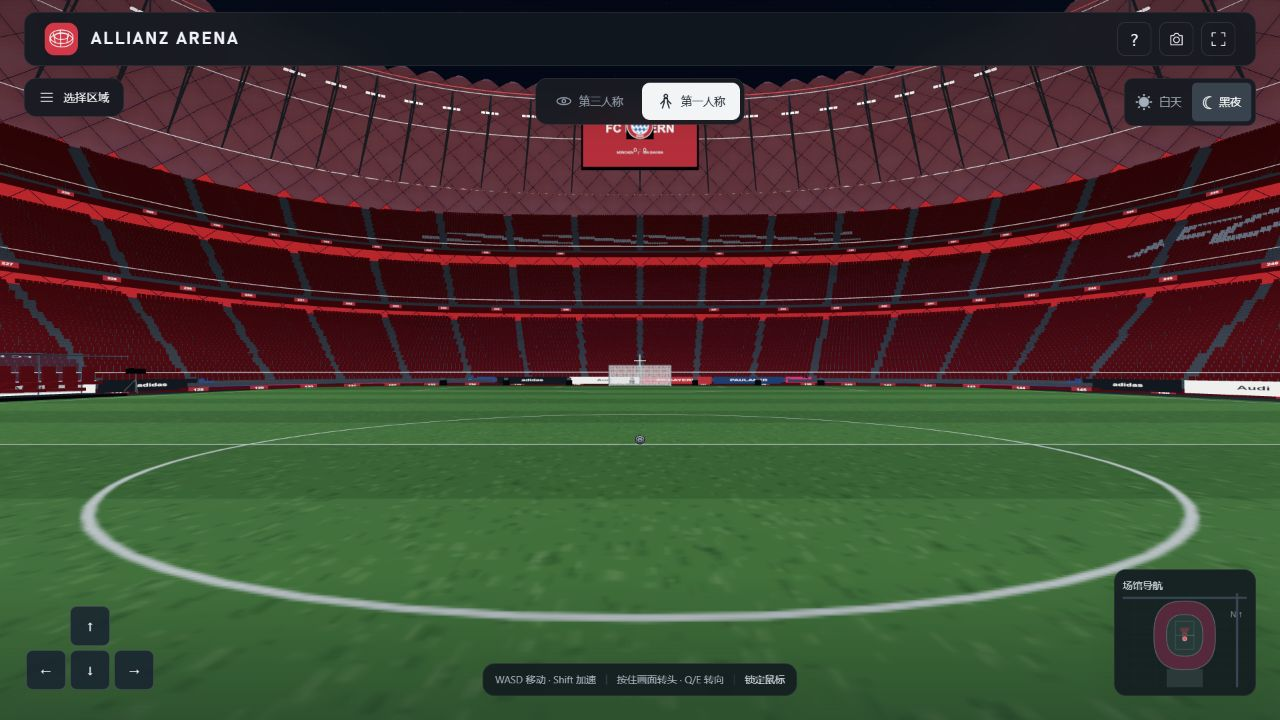
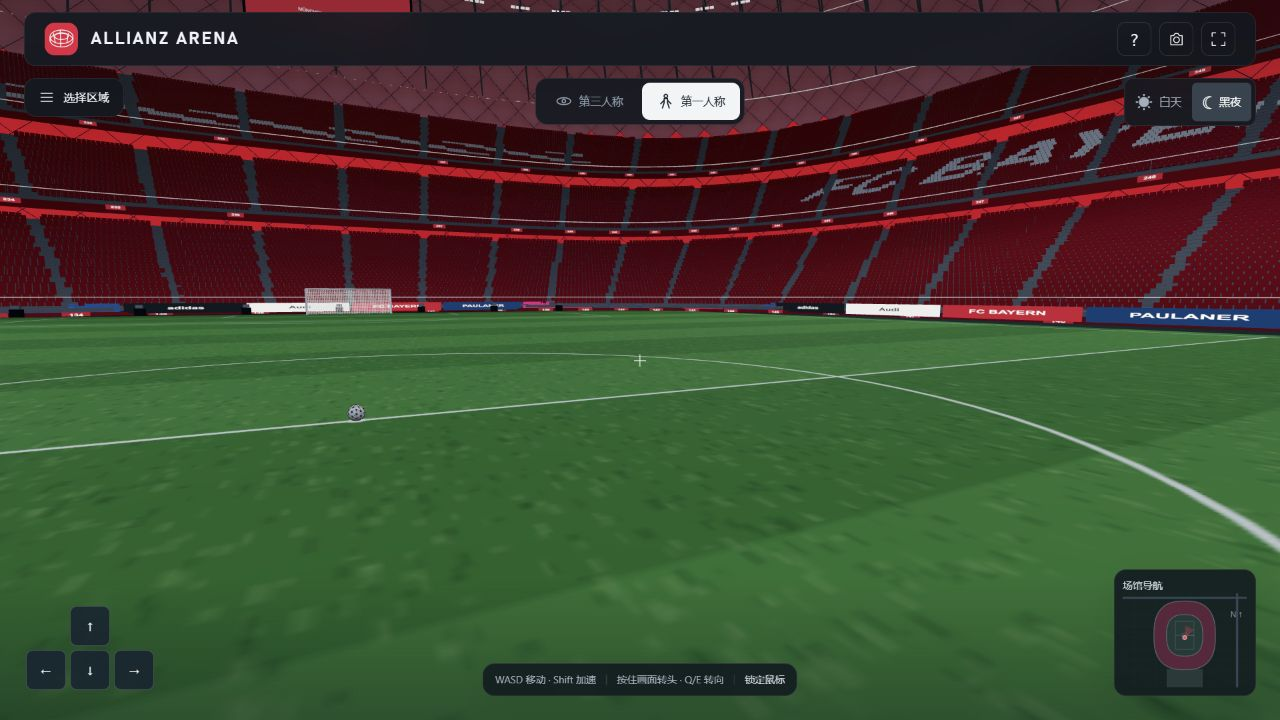
Document public Cloudflare deployment and production verification

diff --git a/docs/VERIFICATION.md b/docs/VERIFICATION.md
@@ -1,6 +1,17 @@
 # 验证记录
 
-日期：2026-10-20。验证对象为本地静态站点及配套源代码。
+日期：2026-10-20。验证对象为本地静态站点、Cloudflare Pages 正式网站及配套源代码。
+
+## Cloudflare 公开版本
+
+- 正式地址：<https://allianz-arena-explorer.pages.dev/>；Cloudflare 控制台确认部署成功。
+- GitHub 仓库为 Public，已识别 MIT 许可；Cloudflare 连接 `main` 分支，构建命令为 `npm run check`，发布目录为 `dist`。
+- 不携带 Cookie 或认证信息请求正式主页，返回 200，无登录重定向。
+- 主页、CSS、应用模块、Three.js 和 OrbitControls 的正式资源与推送的 Git 内容一致；JS / CSS MIME 正确。
+- 实际浏览器打开正式主页：场景 ready，默认导航隐藏，2,784 个外壳气枕与 80,544 个座椅模型正常加载。
+- 在正式网站选中草坪并切换第一人称，导航自动关闭，立即可行走。实际按住 W 1 秒，位置从 `(0, 1.7, 13)` 移到约 `(0, 1.7, 8.443)`。
+- 正式版本第一次拖动画面 160 × 45 像素，朝向变为约 `(-0.48, -0.1137)`；切换黑夜后环境状态为 `night`。
+- 正式版本第一人称截图见仓库 `docs/images/first-person.png`。
 
 ## 导航遮挡与第一人称修复复测
 
@@ -38,4 +49,4 @@
 
 未在独立手机、VR 设备或不同 GPU 上做兼容性测试；未验证浏览器下载目录中的截图文件或全屏权限。截图功能的同源 Canvas 导出代码已检查。未执行精确碰撞或建筑尺寸测绘验收；建筑与室内近似范围见 REFERENCES.md。
 
-预览 PNG 保存在交付目录中的 `allianz-arena-previews/`。部署结果由 Sites 发布工具单独确认。
+预览 PNG 保存在交付目录中的 `allianz-arena-previews/`。公开版本的部署结果以 Cloudflare Pages 为准。

diff --git a/README.md b/README.md
@@ -2,7 +2,7 @@
 
 使用 Three.js 0.186.1 制作的拜仁慕尼黑主场互动复原。所有几何体在浏览器内生成，Three.js 与控制器已经随项目附带；本地启动后不需要联网下载模型、贴图或脚本。
 
-[GitHub 源码](https://github.com/qiangua337/allianz-arena-explorer) · [Cloudflare 部署说明](docs/DEPLOYMENT.md) · [MIT 许可证](LICENSE)
+[在线探索](https://allianz-arena-explorer.pages.dev/) · [GitHub 源码](https://github.com/qiangua337/allianz-arena-explorer) · [Cloudflare 部署说明](docs/DEPLOYMENT.md) · [MIT 许可证](LICENSE)
 
 ![第一人称实景，区域导航默认收起](docs/images/first-person.png)
 

diff --git a/docs/DEPLOYMENT.md b/docs/DEPLOYMENT.md
@@ -1,5 +1,9 @@
 # Cloudflare Pages 发布
 
+公开网站：<https://allianz-arena-explorer.pages.dev/>
+
+公开源码：<https://github.com/qiangua337/allianz-arena-explorer>
+
 这是纯静态网站。生产资源位于 `dist/`，没有构建步骤、服务端数据库或运行时密钥。
 `server.mjs` 仅用于本地预览，不需要上传到 Cloudflare。
 
